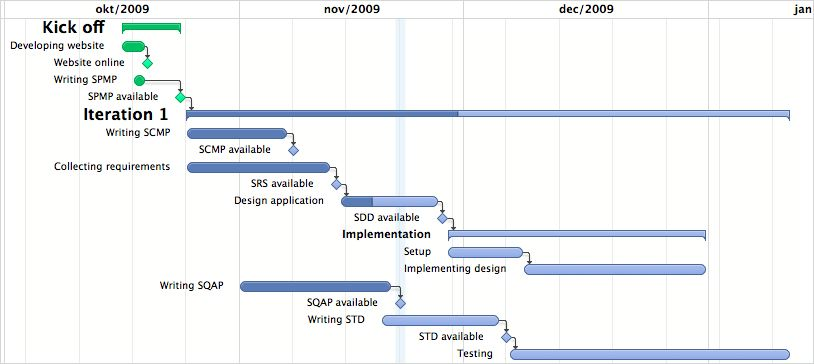
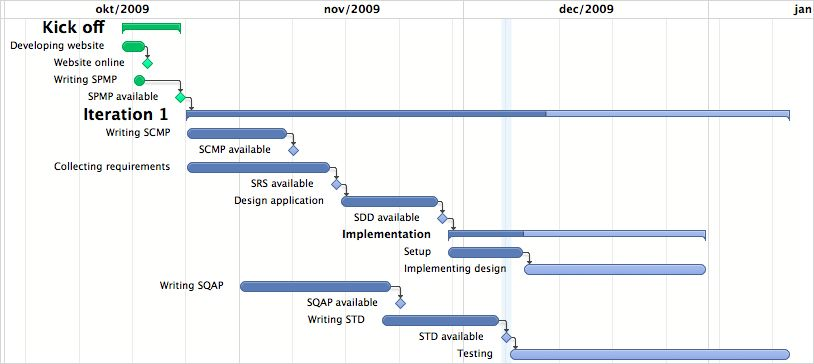
Nick seems to have edited a conflicted version of SPMP.

diff --git a/docs/en/spmp/src/tex/spmp.tex b/docs/en/spmp/src/tex/spmp.tex
@@ -95,11 +95,11 @@
 				\NN 0.21 & 20/11/09 & Nick De Cooman & Adding estimation of effort
 				\NN 0.22 & 22/11/09 & Nick De Cooman & 	- Revision on process model 
 				\NN & & &								- Adding real costs
-				\NN 0.23 & 23/11/09 & Nick De Cooman & 	Adding Gannt chart 
+				\NN 0.23 & 23/11/09 & Nick De Cooman & 	Adding Gantt chart 
 				\NN 0.24 & 26/11/09 & Nick De Cooman & 	Adding estimation of costs
 				\NN 0.30 & 10/12/09 & Nick De Cooman & 	Updating monitoring mechanisms
 				\NN 0.31 & 12/12/09 & Nick De Cooman &	- Updating costs
-				\NN & &	 &								- Updating Gannt chart
+				\NN & &	 &								- Updating Gantt chart
 				\\
 			\end{tabular}	
 		
@@ -545,14 +545,7 @@
 			\section{Planning}	
 				\label{planning}
 			\begin{figure}
-<<<<<<< .mine
-				\includegraphics[angle=90, height=20cm]{../../img/gannt-v0_3.jpg}
-=======
 				\includegraphics[angle=90, height=20cm]{../../img/gantt-chart.jpg}
->>>>>>> .r608
-				\caption{Current schedule of planning in form of Gannt-chart}
-			\end{figure}
-			
-			
-	
+				\caption{Current schedule of planning in form of Gantt-chart}
+			\end{figure}	
 \end{document}
